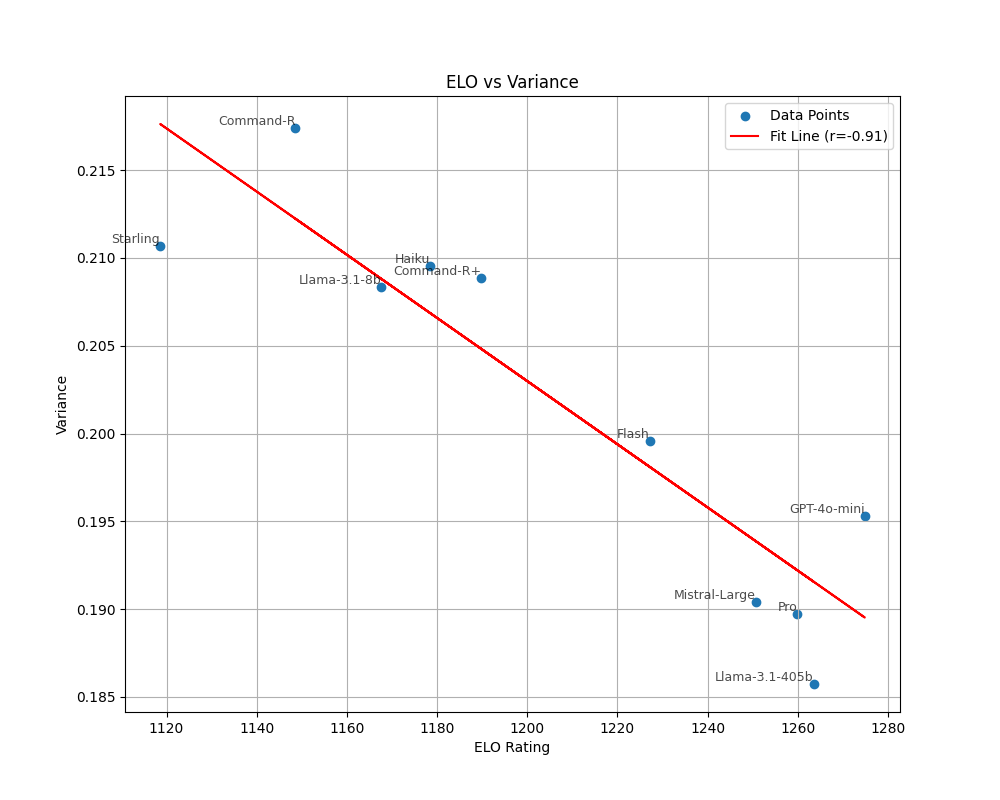
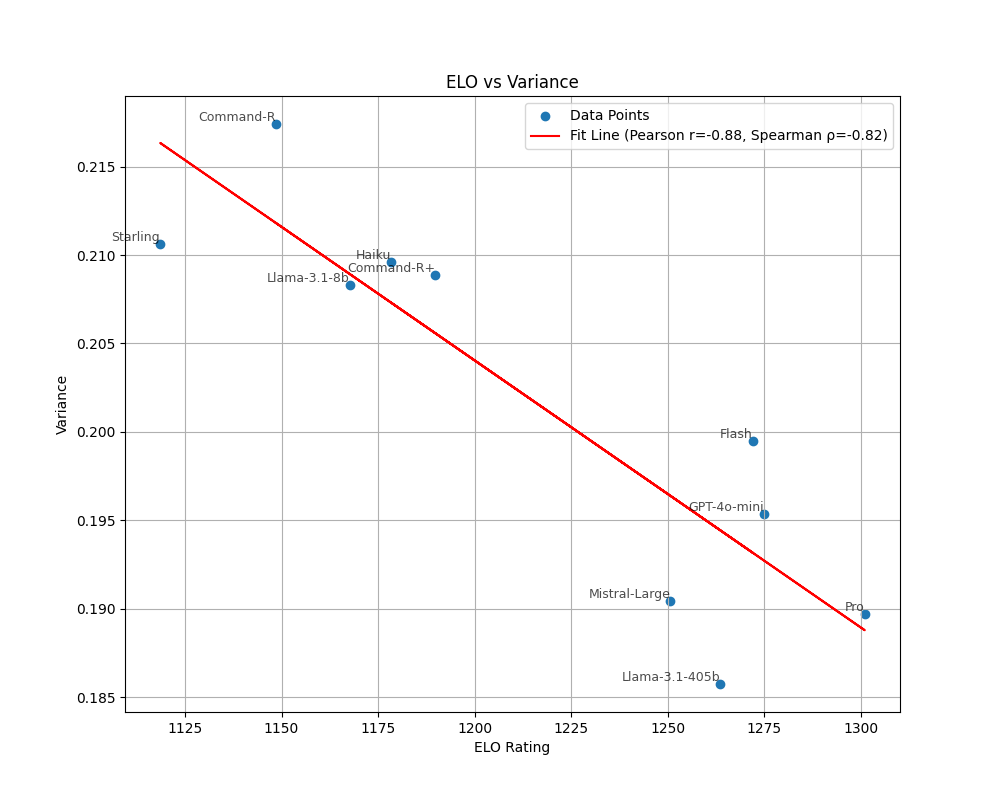
further tests

diff --git a/metric.py b/metric.py
@@ -6,6 +6,7 @@ from pathlib import Path
 from collections import defaultdict
 import matplotlib.pyplot as plt
 from scipy import stats
+from scipy.optimize import lsq_linear
 
 # folder with the input jsons
 input_folder = Path("./data/merged_groups")
@@ -55,8 +56,8 @@ shortname_conversion = {
     'human':'human', 
     'Llama-3.1-8b':'llama-3.1-8b-instruct', 
     'Haiku':'claude-3-haiku-20240307', 
-    'Pro':'gemini-1.5-pro-api-0514', 
-    'Flash':'gemini-1.5-flash-api-0514', 
+    'Pro':'gemini-1.5-pro-002', 
+    'Flash':'gemini-1.5-flash-002', 
     'Command-R':'command-r', 
     'Llama-3.1-405b':'llama-3.1-405b-instruct'
 }
@@ -91,7 +92,7 @@ def compute_match(contest_data:List[Dict]) -> Dict:
             result[pair]['nb_wins1'] += 0.5
     return result
 
-def compute_variance(match_data:Dict) -> Dict:
+def add_variance(match_data:Dict) -> Dict:
     """
     takes a dictionnary of (model1,model2) -> (nb_matches,nb_win1)
     adds win proba and variance fields to each subdict
@@ -102,6 +103,27 @@ def compute_variance(match_data:Dict) -> Dict:
         pair_match_data['win_proba'] = win_proba
         pair_match_data['variance'] = variance
     return match_data
+
+def add_elodiff(match_data:Dict, elo_scores:Dict) -> Dict:
+    """
+    takes a dictionnary of (model1,model2) -> (nb_matches,nb_win1)
+    adds elo_diff to each pair
+    """
+    for (pair, pair_match_data) in match_data.items():
+        elo0 = elo_scores[pair[0]]
+        elo1 = elo_scores[pair[1]]
+        pair_match_data['elo_diff'] = abs(elo0 - elo1)
+    return match_data
+
+#--------------------------------------------------------------------------------------------------
+# METRICS
+
+def compute_average_variance(match_data:Dict) -> float:
+    """
+    takes a dictionnary of (model1,model2) -> (nb_matches,nb_win1,win_proba,variance)
+    returns the average variance
+    """
+    return np.mean( [data['variance'] for data in match_data.values()] )
 
 def compute_weighted_average_variance(match_data:Dict) -> float:
     """
@@ -115,6 +137,48 @@ def compute_weighted_average_variance(match_data:Dict) -> float:
         total_variance += pair_match_data['variance'] * weight
         total_weight += weight 
     return total_variance / total_weight
+
+def compute_pairweighted_variance(match_data:Dict, pair_weights:Dict) -> float:
+    """
+    compute vairance, weighted with precomputed pair weights
+    """
+    total_variance = 0.0
+    total_weight = 0
+    for pair, pair_match_data in match_data.items():
+        weight = pair_weights[pair]
+        total_weight += weight
+        total_variance += pair_match_data['variance'] * weight
+    return total_variance / total_weight
+
+#--------------------------------------------------------------------------------------------------
+# REGRESSION
+
+def regress_pair_weights(match_data:Dict, elo_scores:Dict, solver='nonneg') -> Dict:
+    """
+    produces weights for pairs, such that sum(var*weights) = elo for the judges
+    """
+    judges_names = list(match_data.keys())
+    # get the names of the pairs common to all judges
+    pairs = None
+    for judge_data in match_data.values():
+        judge_pairs = judge_data.keys()
+        if (pairs is None):
+            pairs = set(judge_pairs)
+        else:
+            pairs.intersection_update(judge_pairs)
+    pairs = list(pairs)
+    # build a matrix where each row is a judge, and each column is a pair (in naming order)
+    variance_matrix = np.array([ [ match_data[judge][pair]['variance'] for pair in pairs] for judge in judges_names ])
+    # build a vector of elo scores
+    elo_vector = np.array([ elo_scores[shortname_conversion[judge]] for judge in judges_names ])
+    # do the linear regresssion to find weights for the pairs
+    if solver == 'lstsq':
+        weights, residuals, rank, singular_values = np.linalg.lstsq(variance_matrix, elo_vector, rcond=None)
+    elif solver == 'nonneg':
+        result = lsq_linear(variance_matrix, elo_vector, bounds=(0, np.inf))
+        weights = result.x
+    # save it as a dict of pair->weight
+    return { pair:weight for (pair,weight) in zip(pairs,weights) }
 
 #--------------------------------------------------------------------------------------------------
 # PLOTTING
@@ -136,8 +200,9 @@ def plot_correlation(elo_data: Dict, metric_data: Dict, metric_name: str, output
     elo_values = np.array([elo_data[shortname_conversion[key]] for key in judge_names])
     metric_values = np.array([metric_data[key] for key in judge_names])
 
-    # Calculate correlation
-    correlation, _ = stats.pearsonr(elo_values, metric_values)
+    # Calculate correlations
+    pearson_corr, _ = stats.pearsonr(elo_values, metric_values)
+    spearman_corr, _ = stats.spearmanr(elo_values, metric_values)
 
     # Plotting
     plt.figure(figsize=(10, 8))
@@ -152,7 +217,8 @@ def plot_correlation(elo_data: Dict, metric_data: Dict, metric_name: str, output
 
     # Add correlation line
     m, b = np.polyfit(elo_values, metric_values, 1)
-    plt.plot(elo_values, m * elo_values + b, color="red", label=f"Fit Line (r={correlation:.2f})")
+    plt.plot(elo_values, m * elo_values + b, color="red", 
+             label=f"Fit Line (Pearson r={pearson_corr:.2f}, Spearman ρ={spearman_corr:.2f})")
 
     plt.legend()
     plt.grid()
@@ -165,26 +231,69 @@ def plot_correlation(elo_data: Dict, metric_data: Dict, metric_name: str, output
 
     print(f"Plot saved to {output_file}")
 
+def plot_weight_correlation(elo_data: Dict, pair_weights:Dict, output_folder: Path):
+    pair_names = list(pair_weights.keys())
+    weight_values = np.array([pair_weights[p] for p in pair_names])
+    elodiff_values = np.array([ abs(elo_data[p[0]] - elo_data[p[1]]) for p in pair_names ])
+
+    # Calculate correlation
+    correlation, _ = stats.pearsonr(elodiff_values, weight_values)
+
+    # Plotting
+    plt.figure(figsize=(10, 8))
+    plt.scatter(elodiff_values, weight_values, label="Data Points")
+    plt.xlabel("ELO Difference")
+    plt.ylabel("Pair Weights")
+    plt.title(f"Pair Weights vs ELO Differences")
+
+    # Add correlation line
+    m, b = np.polyfit(elodiff_values, weight_values, 1)
+    plt.plot(elodiff_values, m * elodiff_values + b, color="red", label=f"Fit Line (r={correlation:.2f})")
+
+    plt.legend()
+    plt.grid()
+
+    # Save plot to file
+    output_file = output_folder / 'pair_weights_vs_elo_difference.png'
+    plt.savefig(output_file)
+    plt.close()
+
+    print(f"Plot saved to {output_file}")
+
 #--------------------------------------------------------------------------------------------------
 # MAIN
 
 # Importing the data
 elo_data = import_elos(elo_file)
 json_data = import_jsons(input_folder)
-match_data = dict_map(json_data, lambda data: compute_variance(compute_match(data)))
+match_data = dict_map(json_data, lambda data: add_variance(compute_match(data)) )
+nonhuman_match_data = {k: v for k, v in match_data.items() if k != human_reference}
+
+# Run Regression
+regression_pair_weights = regress_pair_weights(nonhuman_match_data, elo_data)
+plot_weight_correlation(elo_data, regression_pair_weights, output_folder)
+pair_elodiff = { pair:abs(elo_data[pair[0]] - elo_data[pair[1]]) for pair in regression_pair_weights.keys() }
+exp_pair_weights = { pair: np.exp(-elodiff / 100) for (pair,elodiff) in pair_elodiff.items() }
+log_pair_weights = { pair: np.log10(1 + elodiff) for (pair,elodiff) in pair_elodiff.items() }
 
 # Computing the metrics
-variance_data = dict_map(match_data, compute_weighted_average_variance)
-std_data = dict_map(variance_data, math.sqrt)
+variance_data = dict_map(match_data, compute_average_variance)
+weighted_variance_data = dict_map(match_data, compute_weighted_average_variance)
+regression_weighted_variance_data = dict_map(match_data, lambda data: compute_pairweighted_variance(data,regression_pair_weights))
+expelodiff_weighted_variance_data = dict_map(match_data, lambda data: compute_pairweighted_variance(data,exp_pair_weights))
+logelodiff_weighted_variance_data = dict_map(match_data, lambda data: compute_pairweighted_variance(data,log_pair_weights))
 
 # Ploting the correlations
 plot_correlation(elo_data, variance_data, metric_name='Variance', output_folder=output_folder)
-plot_correlation(elo_data, std_data, metric_name='Standard Deviation', output_folder=output_folder)
+plot_correlation(elo_data, weighted_variance_data, metric_name='Weighted Variance', output_folder=output_folder)
+plot_correlation(elo_data, regression_weighted_variance_data, metric_name='Regression Pair Weighted Variance', output_folder=output_folder)
+plot_correlation(elo_data, expelodiff_weighted_variance_data, metric_name='Exp ELodiff Pair Weighted Variance', output_folder=output_folder)
+plot_correlation(elo_data, logelodiff_weighted_variance_data, metric_name='Log ELodiff Pair Weighted Variance', output_folder=output_folder)
 
 """
-TODO:
-* try weighting the std more cleverly
-  * no weight
-  * nb_match weight
-  * regression weight
+Results:
+* sd vs variance give the same numbers correlation, might as well use variance
+* weighted variance vs variance: essentially the same, in part because we have roughly equal amounts of data everywhere
+* basic (and non-negative) regression overfits on the number of pairs
+* spearman correlation is more discriminant here
 """
